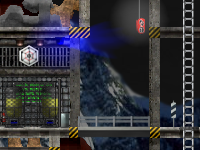
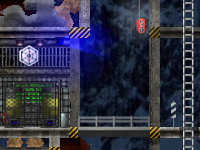
+ Neuer Hintergrund². + Paralax-Standards der Hintergründe angepasst. * Titelbilder aktualisiert.

diff --git a/cmcrepos/ModernCombatFINALTRY.c4f/Backgrounds.c4d/Mountain.c4d/Script.c b/cmcrepos/ModernCombatFINALTRY.c4f/Backgrounds.c4d/Mountain.c4d/Script.c
@@ -1,4 +1,4 @@
-/*-- Schneeberg --*/
+/*-- Berg --*/
 
 #strict 2
 
@@ -8,5 +8,5 @@
 public func Initialize()
 {
   SetCategory(GetCategory() | C4D_Parallax | C4D_Background | C4D_MouseIgnore);
-  Local()=30; Local(1)=100;
+  Local()=40; Local(1)=100;
 }

diff --git a/cmcrepos/ModernCombatFINALTRY.c4f/Backgrounds.c4d/Canyon.c4d/Script.c b/cmcrepos/ModernCombatFINALTRY.c4f/Backgrounds.c4d/Canyon.c4d/Script.c
@@ -8,5 +8,5 @@
 public func Initialize()
 {
   SetCategory(GetCategory() | C4D_Parallax | C4D_Background | C4D_MouseIgnore);
-  Local()=40; Local(1)=60;
+  Local()=40; Local(1)=100;
 }

diff --git a/cmcrepos/ModernCombatFINALTRY.c4f/Backgrounds.c4d/Docks.c4d/Script.c b/cmcrepos/ModernCombatFINALTRY.c4f/Backgrounds.c4d/Docks.c4d/Script.c
@@ -8,5 +8,5 @@
 public func Initialize()
 {
   SetCategory(GetCategory() | C4D_Parallax | C4D_Background | C4D_MouseIgnore);
-  Local()=40; Local(1)=60;
+  Local()=40; Local(1)=100;
 }

diff --git a/cmcrepos/ModernCombatFINALTRY.c4f/Backgrounds.c4d/GrassHills.c4d/Script.c b/cmcrepos/ModernCombatFINALTRY.c4f/Backgrounds.c4d/GrassHills.c4d/Script.c
@@ -8,5 +8,5 @@
 public func Initialize()
 {
   SetCategory(GetCategory() | C4D_Parallax | C4D_Background | C4D_MouseIgnore);
-  Local()=40; Local(1)=30;
+  Local()=40; Local(1)=100;
 }

diff --git a/cmcrepos/ModernCombatFINALTRY.c4f/Backgrounds.c4d/GrassHills2.c4d/Script.c b/cmcrepos/ModernCombatFINALTRY.c4f/Backgrounds.c4d/GrassHills2.c4d/Script.c
@@ -8,5 +8,5 @@
 public func Initialize()
 {
   SetCategory(GetCategory() | C4D_Parallax | C4D_Background | C4D_MouseIgnore);
-  Local()=40; Local(1)=30;
+  Local()=40; Local(1)=100;
 }

diff --git a/cmcrepos/ModernCombatFINALTRY.c4f/Backgrounds.c4d/SnowMountain2.c4d/Script.c b/cmcrepos/ModernCombatFINALTRY.c4f/Backgrounds.c4d/SnowMountain2.c4d/Script.c
@@ -8,5 +8,5 @@
 public func Initialize()
 {
   SetCategory(GetCategory() | C4D_Parallax | C4D_Background | C4D_MouseIgnore);
-  Local()=40; Local(1)=30;
+  Local()=40; Local(1)=100;
 }
